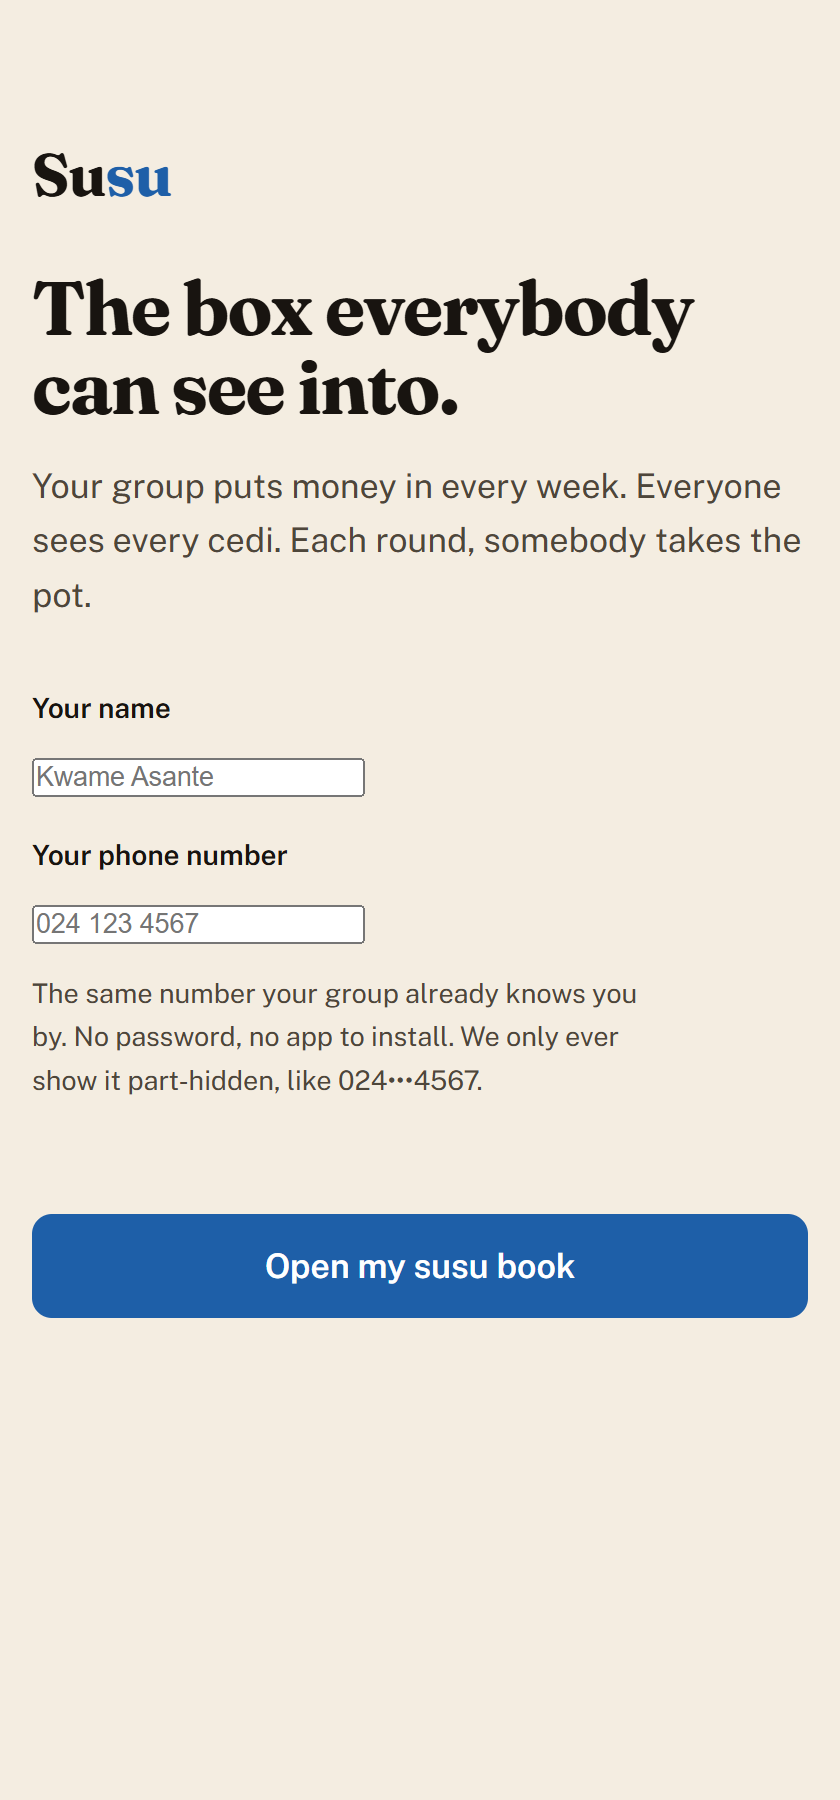
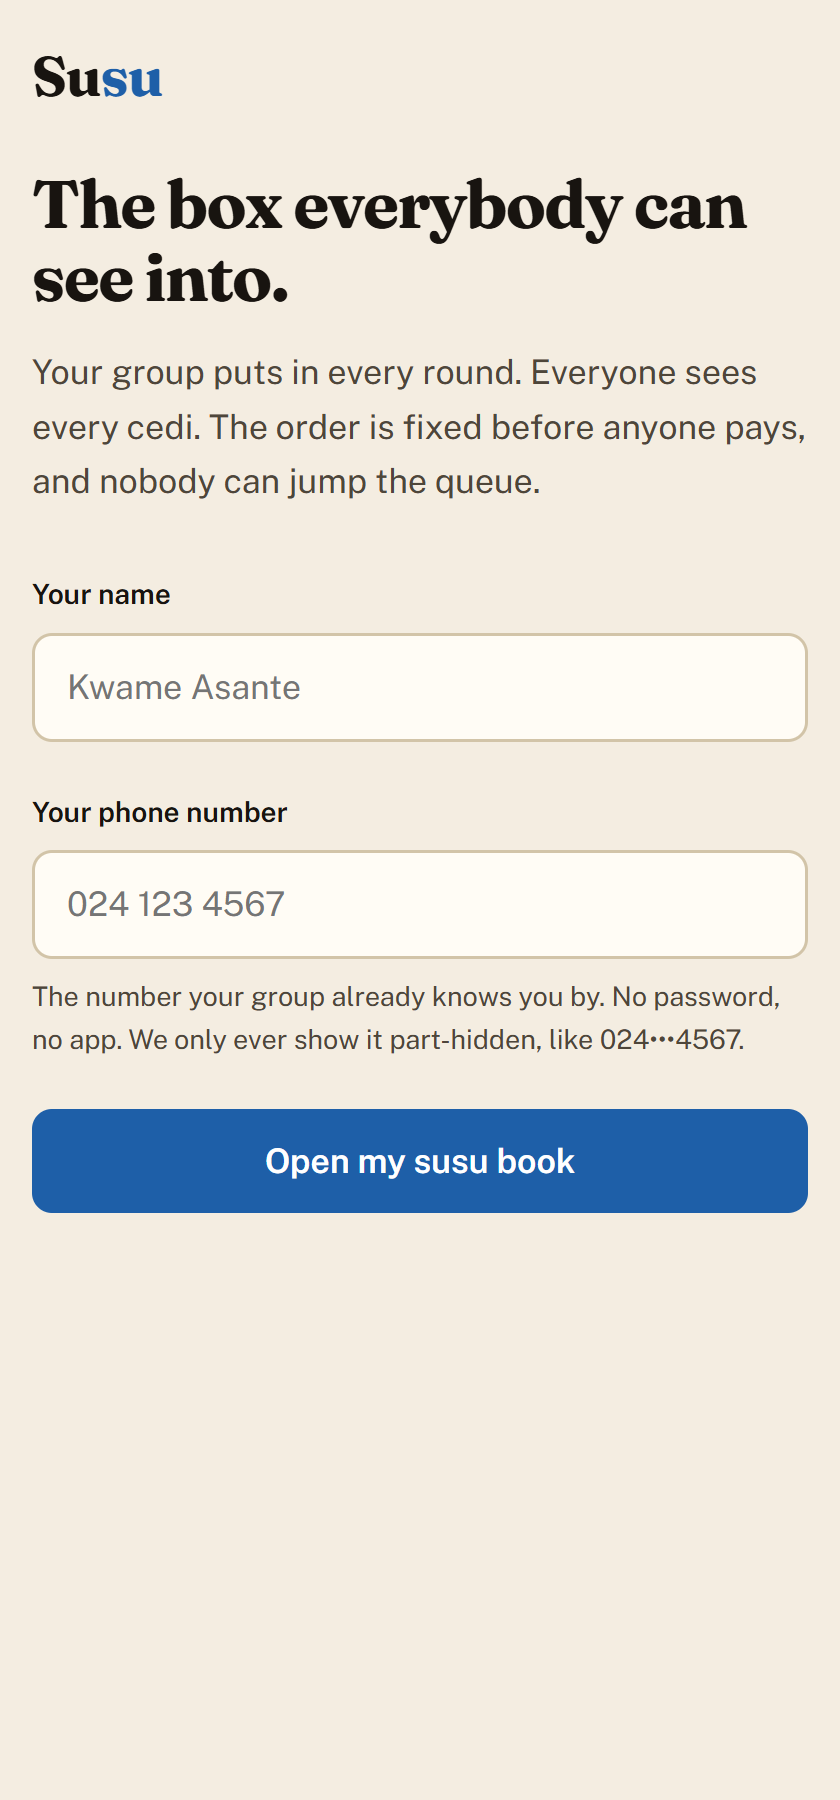
Recapture media from the live circles app; point shots script at the public URL

Changed region(s): [[0.031, 0.0311, 0.9595, 0.7467]]

diff --git a/scripts/shots.js b/scripts/shots.js
@@ -1,11 +1,14 @@
 // Captures submission media from the LIVE app. Real screenshots, not mockups.
+// Drives a real circle into a real state first, so nothing on screen is staged.
 const puppeteer = require('puppeteer-core');
 const fs = require('fs');
 const path = require('path');
 
 const CHROME = 'C:\\Program Files\\Google\\Chrome\\Application\\chrome.exe';
-const URL = process.env.SHOT_URL || 'https://susu-dpbrw08ny-mutalib.vercel.app';
+const URL = process.env.SHOT_URL || 'https://susu-cyan.vercel.app';
 const OUT = path.join(__dirname, '..', 'media');
+
+const wait = (ms) => new Promise((r) => setTimeout(r, ms));
 
 (async () => {
   fs.mkdirSync(OUT, { recursive: true });
@@ -17,61 +20,114 @@ const OUT = path.join(__dirname, '..', 'media');
 
   const page = await browser.newPage();
   await page.setViewport({ width: 420, height: 900, deviceScaleFactor: 2 });
+  page.setDefaultTimeout(180000);
 
   const shot = async (name, full = false) => {
-    const p = path.join(OUT, `${name}.png`);
-    await page.screenshot({ path: p, fullPage: full });
+    await page.screenshot({ path: path.join(OUT, `${name}.png`), fullPage: full });
     console.log('saved', name);
   };
+  const settled = (sel) => page.waitForFunction((s) => {
+    const n = document.querySelector(s);
+    return n && !n.textContent.includes('Loading') && !n.textContent.includes('Reading');
+  }, {}, sel);
+
+  console.log('target:', URL);
+  await page.goto(URL, { waitUntil: 'networkidle2' });
+  await page.evaluate(() => { localStorage.clear(); sessionStorage.clear(); });
+  await page.reload({ waitUntil: 'networkidle2' });
+  await wait(1200);
 
   // 1 — the front door
-  await page.goto(URL, { waitUntil: 'networkidle2', timeout: 60000 });
-  await new Promise((r) => setTimeout(r, 1200));
   await shot('1-signin');
 
-  // 2 — signed in, money in the box
+  // sign in
   await page.type('#fullname', 'Akosua Boateng');
   await page.type('#phone', '024 887 5512');
-  await page.click('#gateBtn');
-  await page.waitForFunction(() => document.getElementById('gate').classList.contains('hidden'), { timeout: 90000 });
-  await page.waitForFunction(() => document.getElementById('activity').textContent.trim() !== '', { timeout: 60000 });
-  await new Promise((r) => setTimeout(r, 800));
-  await shot('2-your-book');
+  await page.click('#b-gate');
+  await page.waitForFunction(() => !document.getElementById('v-list').classList.contains('hidden'));
+  await settled('#list');
+  await wait(600);
 
-  // 3 — a contribution going through
-  await page.click('#payBtn');
-  await page.waitForFunction(
-    () => {
-      const s = document.getElementById('status').textContent;
-      return s.includes('in the box');
-    },
-    { timeout: 90000 },
-  );
-  await new Promise((r) => setTimeout(r, 800));
-  await shot('3-put-in');
+  // 2 — no circles yet
+  await shot('2-no-circles');
 
-  // 4 — the whole page, ledger and dated book
-  await shot('4-full-page', true);
+  // create one
+  const code = 'SHOT' + Math.random().toString(36).slice(2, 6).toUpperCase();
+  await page.click('[data-go="create"]');
+  await wait(400);
+  await page.type('#c-label', 'Ayeduase Hall Circle');
+  await page.type('#c-code', code);
+  await page.evaluate(() => { document.getElementById('c-amount').value = '20'; document.getElementById('c-size').value = '3'; });
+  await page.select('#c-round', '120');
+  await wait(300);
 
-  // 5 — the reveal
+  // 3 — the create form
+  await shot('3-start-a-circle');
+
+  await page.click('#b-create');
+  await page.waitForFunction(() => !document.getElementById('v-circle').classList.contains('hidden'));
+  await settled('#ci-members');
+  await wait(600);
+
+  // 4 — the join code, before it starts
+  await shot('4-join-code');
+
+  // bring two more members in through the same relayer the browser uses
+  console.log('adding two members…');
+  await page.evaluate(async (c) => {
+    for (const name of ['Kofi Mensah · 055•••3344', 'Yaa Boateng · 020•••5566']) {
+      const w = ethers.Wallet.createRandom();
+      await fetch('/api/joinCircle', {
+        method: 'POST',
+        headers: { 'content-type': 'application/json' },
+        body: JSON.stringify({ code: c, address: w.address, handle: name }),
+      });
+    }
+  }, code);
+
+  await page.reload({ waitUntil: 'networkidle2' });
+  await page.waitForFunction(() => !document.getElementById('v-list').classList.contains('hidden'));
+  await settled('#list');
+  await page.evaluate(() => document.querySelector('[data-circle]').click());
+  await settled('#ci-members');
+  await wait(600);
+
+  // start it, then pay
+  console.log('starting and paying…');
+  await page.evaluate(() => document.querySelector('#ci-actions button').click());
+  await page.waitForFunction(() => document.getElementById('s-circle').getAttribute('data-kind') === 'good');
+  await wait(800);
+  await page.evaluate(() => {
+    const b = [...document.querySelectorAll('#ci-actions button')].find((x) => x.textContent.startsWith('Put in'));
+    if (b) b.click();
+  });
+  await page.waitForFunction(() => (document.getElementById('s-circle').textContent || '').includes('in the box'));
+  await settled('#ci-book');
+  await wait(800);
+
+  // 5 — a circle actually running
+  await shot('5-running');
+  await shot('6-full-page', true);
+
+  // 7 — the reveal
   await page.evaluate(() => {
     document.querySelector('.truth').open = true;
     document.querySelector('.truth').scrollIntoView({ block: 'start' });
   });
-  await new Promise((r) => setTimeout(r, 600));
-  await shot('5-the-truth');
+  await wait(700);
+  await shot('7-the-truth');
 
-  // 6 — cover card, 1200x630
-  const cover = page;
-  await cover.setViewport({ width: 1200, height: 630, deviceScaleFactor: 2 });
-  await cover.goto('file:///' + path.join(__dirname, '..', 'media', 'cover.html').replace(/\\/g, '/'), {
+  // 0 — cover card
+  await page.setViewport({ width: 1200, height: 630, deviceScaleFactor: 2 });
+  await page.goto('file:///' + path.join(__dirname, '..', 'media', 'cover.html').replace(/\\/g, '/'), {
     waitUntil: 'networkidle2',
   });
-  await new Promise((r) => setTimeout(r, 900));
-  await cover.screenshot({ path: path.join(OUT, '0-cover.png') });
+  await wait(900);
+  await page.screenshot({ path: path.join(OUT, '0-cover.png') });
   console.log('saved 0-cover');
 
   await browser.close();
+  console.log('\ndone — media/');
 })().catch((e) => {
   console.error('FAILED:', e.message);
   process.exit(1);
